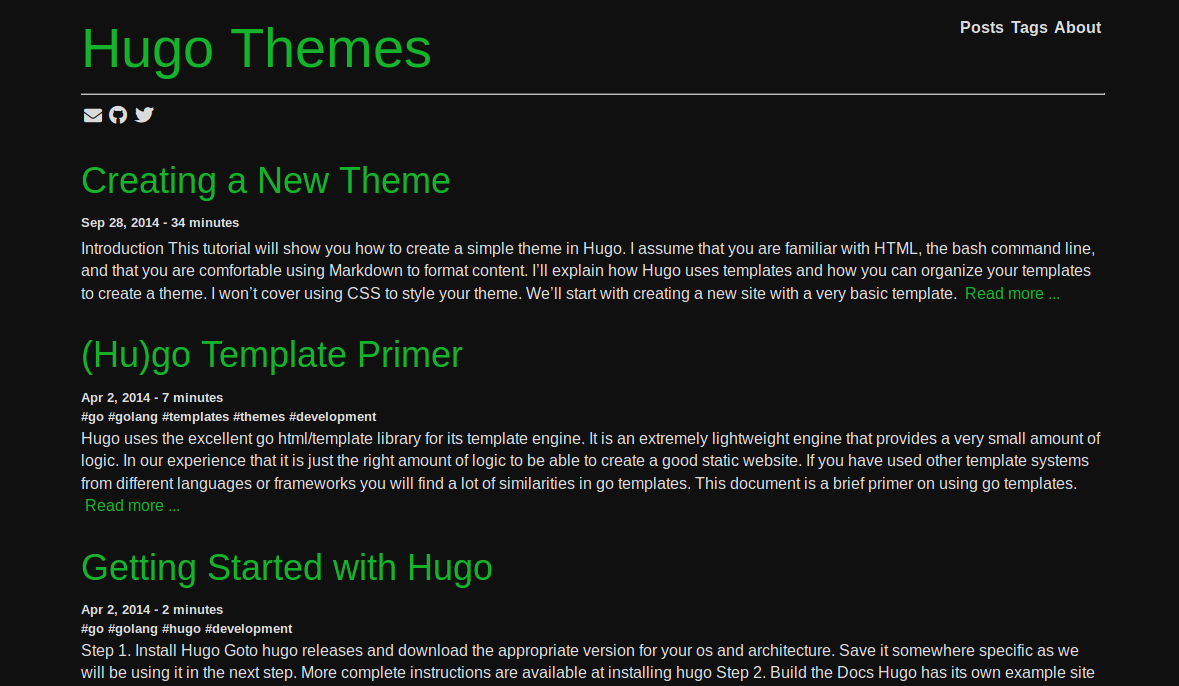
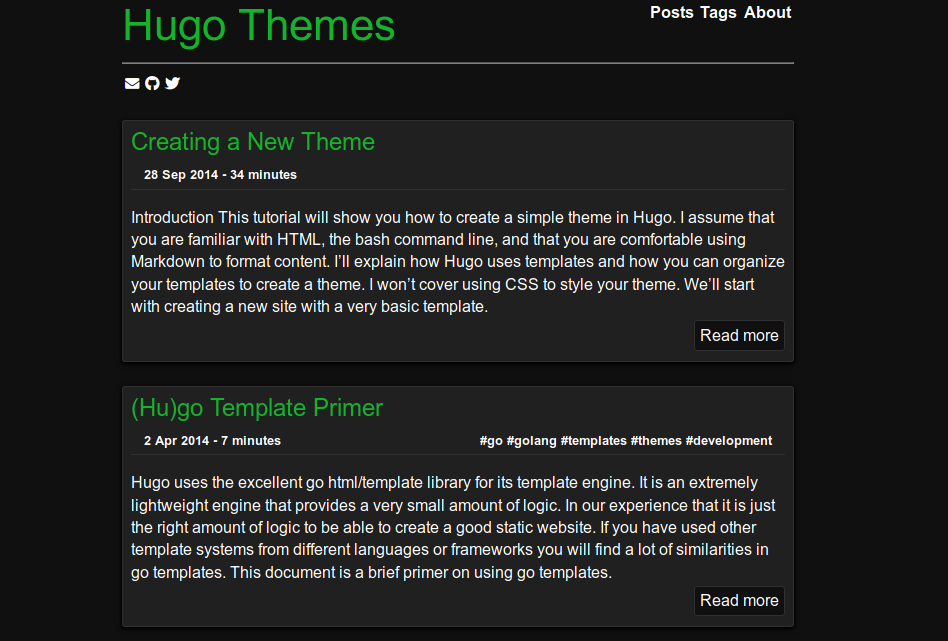
design update based on gyorb/master #41

Changed region(s): [[0.0612, 0.0, 0.9483, 0.9984], [0.673, 0.0, 0.9483, 0.0624], [0.7342, 0.4992, 0.8259, 0.5304]]

diff --git a/static/css/layout.css b/static/css/layout.css
@@ -2,13 +2,11 @@ body {
   font-family: "Arial", Gadget, sans-serif;
   counter-reset: heading;
   margin: 0;
-  padding: 1em 0.5em 0.5em 0.5em;
-
 }
 
 .main {
-  margin: 0 auto;
-  max-width: 64em;
+  margin: auto;
+  max-width: 42em;
 }
 
 img {
@@ -29,7 +27,7 @@ figcaption {
 }
 
 iframe {
-  max-width: 64em;
+  max-width: 42em;
   display: block;
   margin-left: auto;
   margin-right: auto;
@@ -40,24 +38,25 @@ li {
 }
 
 p {
+  line-height: 1.4em;
  }
 
-h1 { font-size: 2.75em;
+h1 { font-size: 2em;
      font-weight: normal;
 }
-h2 { font-size: 2.25em;
+h2 { font-size: 1.5em;
      font-weight: normal;
 }
-h3 { font-size: 2em;
+h3 { font-size: 1.17em;
      font-weight: normal;
 }
-h4 { font-size: 1.5em;
+h4 { font-size: 1.12em;
      font-weight: normal;
 }
-h5 { font-size: 1.25em;
+h5 { font-size: .83em;
      font-weight: normal;
 }
-h6 { font-size: 1em;
+h6 { font-size: .75em;
      font-weight: normal;
 }
 
@@ -122,7 +121,7 @@ th, td {
 
 /* site title  */
 .siteTitle {
-  font-size: 3.5em;
+  font-size: 2.75em;
   margin-bottom: 0.1em;
 }
 
@@ -137,6 +136,12 @@ th, td {
   display: flex;
   justify-content: space-between;
   flex-flow: row wrap;
+}
+
+.post {
+  margin-top: 1.5em;
+  padding-left: 0.5em;
+  padding-right: 0.5em;
 }
 
 .post .title {
@@ -160,11 +165,11 @@ th, td {
 }
 
 .post .content h4{
-  margin: .5em 0em;
+  margin: .75em 0em;
 }
 
 .post .content h5{
-  margin: .5em 0em;
+  margin: .75em 0em;
 }
 
 .post .content p{
@@ -191,6 +196,20 @@ th, td {
   font-size: 0.9em;
 }
 
+.content-item {
+  margin-top: 0.5em;
+  padding: 0.1em 0.3em 0.5em 0.3em
+}
+
+.content-item .meta{
+  margin-top: 0.5em;
+  padding-top: 0.5em;
+  display: -webkit-flex;
+  display:flex;
+  flex-wrap: wrap;
+  justify-content: space-between;
+}
+
 .content-item .tags {
   margin-bottom: 0.2em;
   font-size: 0.7em;
@@ -200,6 +219,7 @@ th, td {
   font-size: 0.7em;
   font-weight: bold;
   white-space: nowrap;
+  text-align: right;
 }
 
 .post-footer-menu {
@@ -279,7 +299,7 @@ th, td {
 
 .social-link {
   margin: 0.2em;
-  font-size: 1.5em;
+  font-size: 1.2em;
 }
 
 .social-link:hover {
@@ -308,7 +328,7 @@ th, td {
 }
 
 .post-list .title {
-  margin-bottom: 0em;
+  margin: 0em;
 }
 
 .tag {
@@ -323,9 +343,15 @@ th, td {
 
 .post-preview {
   text-decoration: none;
+  padding-bottom: 1em;
+  padding-left: 0.5em;
+  padding-right: 0.5em;
+  margin-top: 1.5em;
+  margin-bottom: 1.5em;
 }
 
 .post-preview .title {
+  margin-top: 0.3em;
   margin-bottom: 0.3em;
 }
 
@@ -334,7 +360,8 @@ th, td {
 }
 
 .post-preview .summary {
-  margin-top: 0.2em;
+  margin-top: 1em;
+  margin-bottom: 0.5em;
   line-height: 1.4em;
 }
 
@@ -349,8 +376,15 @@ th, td {
 .post-preview .meta {
   font-size: 0.8em;
   font-weight: bold;
-  padding-bottom: 0.3em;
-  padding-top: 0.3em;
+  padding: 0.3em 1em 0.5em 1em;
+  text-align: left;
+  display: flex;
+  flex-wrap: wrap;
+  justify-content: space-between;
+}
+
+.post-preview .date {
+  font-weight: bold;
   text-align: left;
 }
 
@@ -360,11 +394,24 @@ th, td {
 }
 
 .rmore {
+  margin-top: 0.5em;
   white-space:nowrap;
-  text-decoration: underline;
+  text-align: right;
+}
+
+.rmore a {
+  border-radius: 0.2em;
+  padding: 0.3em;
 }
 
 /* terms list */
+.terms {
+  border-radius: 0.2em;
+  width: 50%;
+  margin: auto;
+  margin-bottom: 1em;
+}
+
 .terms a {
   font-size: 1.2em;
   text-decoration: none;
@@ -416,6 +463,7 @@ th, td {
 .sitemap {
     margin: auto;
     width: 50%;
+    font-size: 1.4em;
 }
 
 @media only screen and (min-width: 400px) {

diff --git a/layouts/_default/li.html b/layouts/_default/li.html
@@ -1,7 +1,10 @@
 <div class="content-item">
+
     <a href="{{ .Permalink }}">
-    <div class="post-list"> <h3 class="title"> {{ .Title }} </h3> </div>
+      <div class="post-list"> <h3 class="title"> {{ .Title }} </h3> </div>
     </a>
-    {{ partial "tags.html" . }}
-    <div class="date"> {{ .Date.Format "2 Jan 2006" }} </div>
+    <div class="meta">
+      {{ partial "tags.html" . }}
+      <div class="date"> {{ .Date.Format "2 Jan 2006" }} </div>
+    </div>
 </div>

diff --git a/layouts/_default/summary.html b/layouts/_default/summary.html
@@ -3,7 +3,9 @@
   <header>
     <h2 class="title"> <a href='{{ .Permalink }}'> {{ .Title }}</a> </h2>
     <div class="meta">
+      <div class="date">
       {{ .Date.Format "2 Jan 2006" }} - {{ .ReadingTime }} minutes
+      </div>
       {{ partial "tags.html" . }}
     </div>
 
@@ -14,7 +16,7 @@
   </div>
 
   <div class="rmore">
-    <a href='{{ .Permalink }}' class="rmore">Read more ...</a>
+    <a href='{{ .Permalink }}' class="rmore">Read more</a>
   </div>
 
 

diff --git a/layouts/partials/head.html b/layouts/partials/head.html
@@ -17,7 +17,7 @@
 {{ if isset .Site.Params "theme_colors" }}
 <link rel="stylesheet" href="/css/{{ .Site.Params.theme_colors }}.css" />
 {{ else }}
-<link rel="stylesheet" href="/css/color-dark.css" />
+<link rel="stylesheet" href="/css/default-dark.css" />
 {{ end }}
 
 {{ template "_internal/google_analytics_async.html" . }}

diff --git a/layouts/_default/list.html b/layouts/_default/list.html
@@ -6,12 +6,10 @@
 
 <div class="content-list">
 {{ range .Data.Pages.GroupByDate "2006" }}
-<div class="content-list-date">{{ .Key }}</div>
   {{ range .Pages }}
   {{ .Render "li"}}
   {{ end }}
 {{ end }}
-</div>
 
 
 {{ partial "footer.html" . }}

diff --git a/layouts/partials/header.html b/layouts/partials/header.html
@@ -21,8 +21,9 @@
 
   </nav>
   <hr/>
-</div>
 
   {{ partial "social-links.html" . }}
+
+</div>
 
 </header>

diff --git a/CHANGELOG.md b/CHANGELOG.md
@@ -13,6 +13,10 @@
   * code block background now transparent
   * date format now D Mon YYYY
   * theme colors are changed via css file
+  * titles, tags, list of posts are not so dense as before
+  * default colors were fine tuned
+  * some other small layout changes
+    
 
 ### Fixed
   * fix breaking change in mainSections introduced in Hugo v0.57.0

diff --git a/README.md b/README.md
@@ -72,5 +72,5 @@ pygmentsCodeFences = true
   twitter = "twitter id"
   linkedin = "linkedin id"
   email = "myemail"
-  theme_colors = "color-dark"
+  theme_colors = "default-dark" #uses color css file under static/css/default-dark.css
 ~~~~
